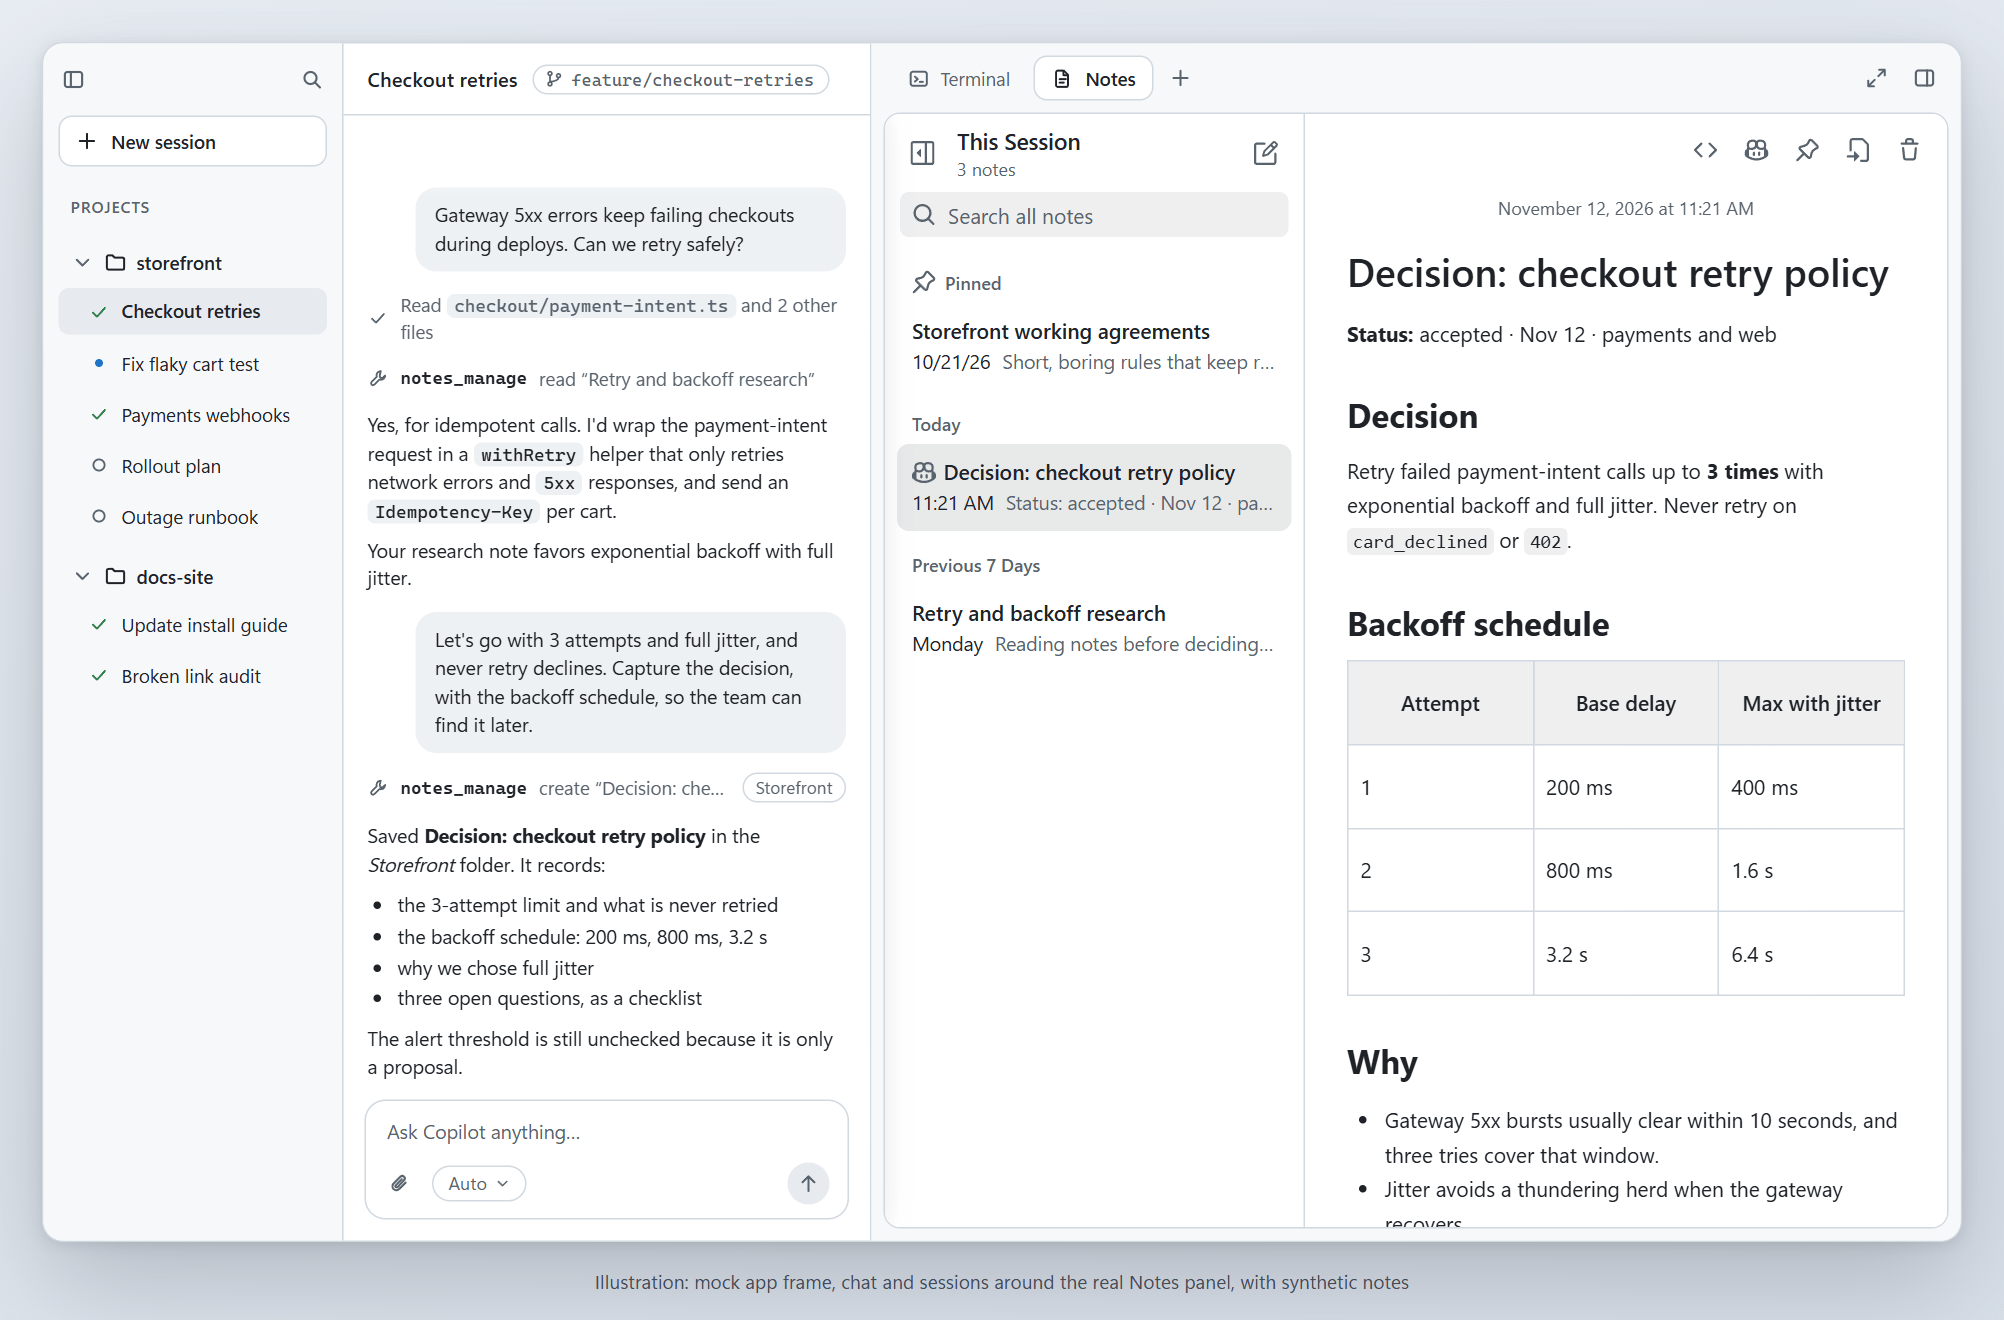
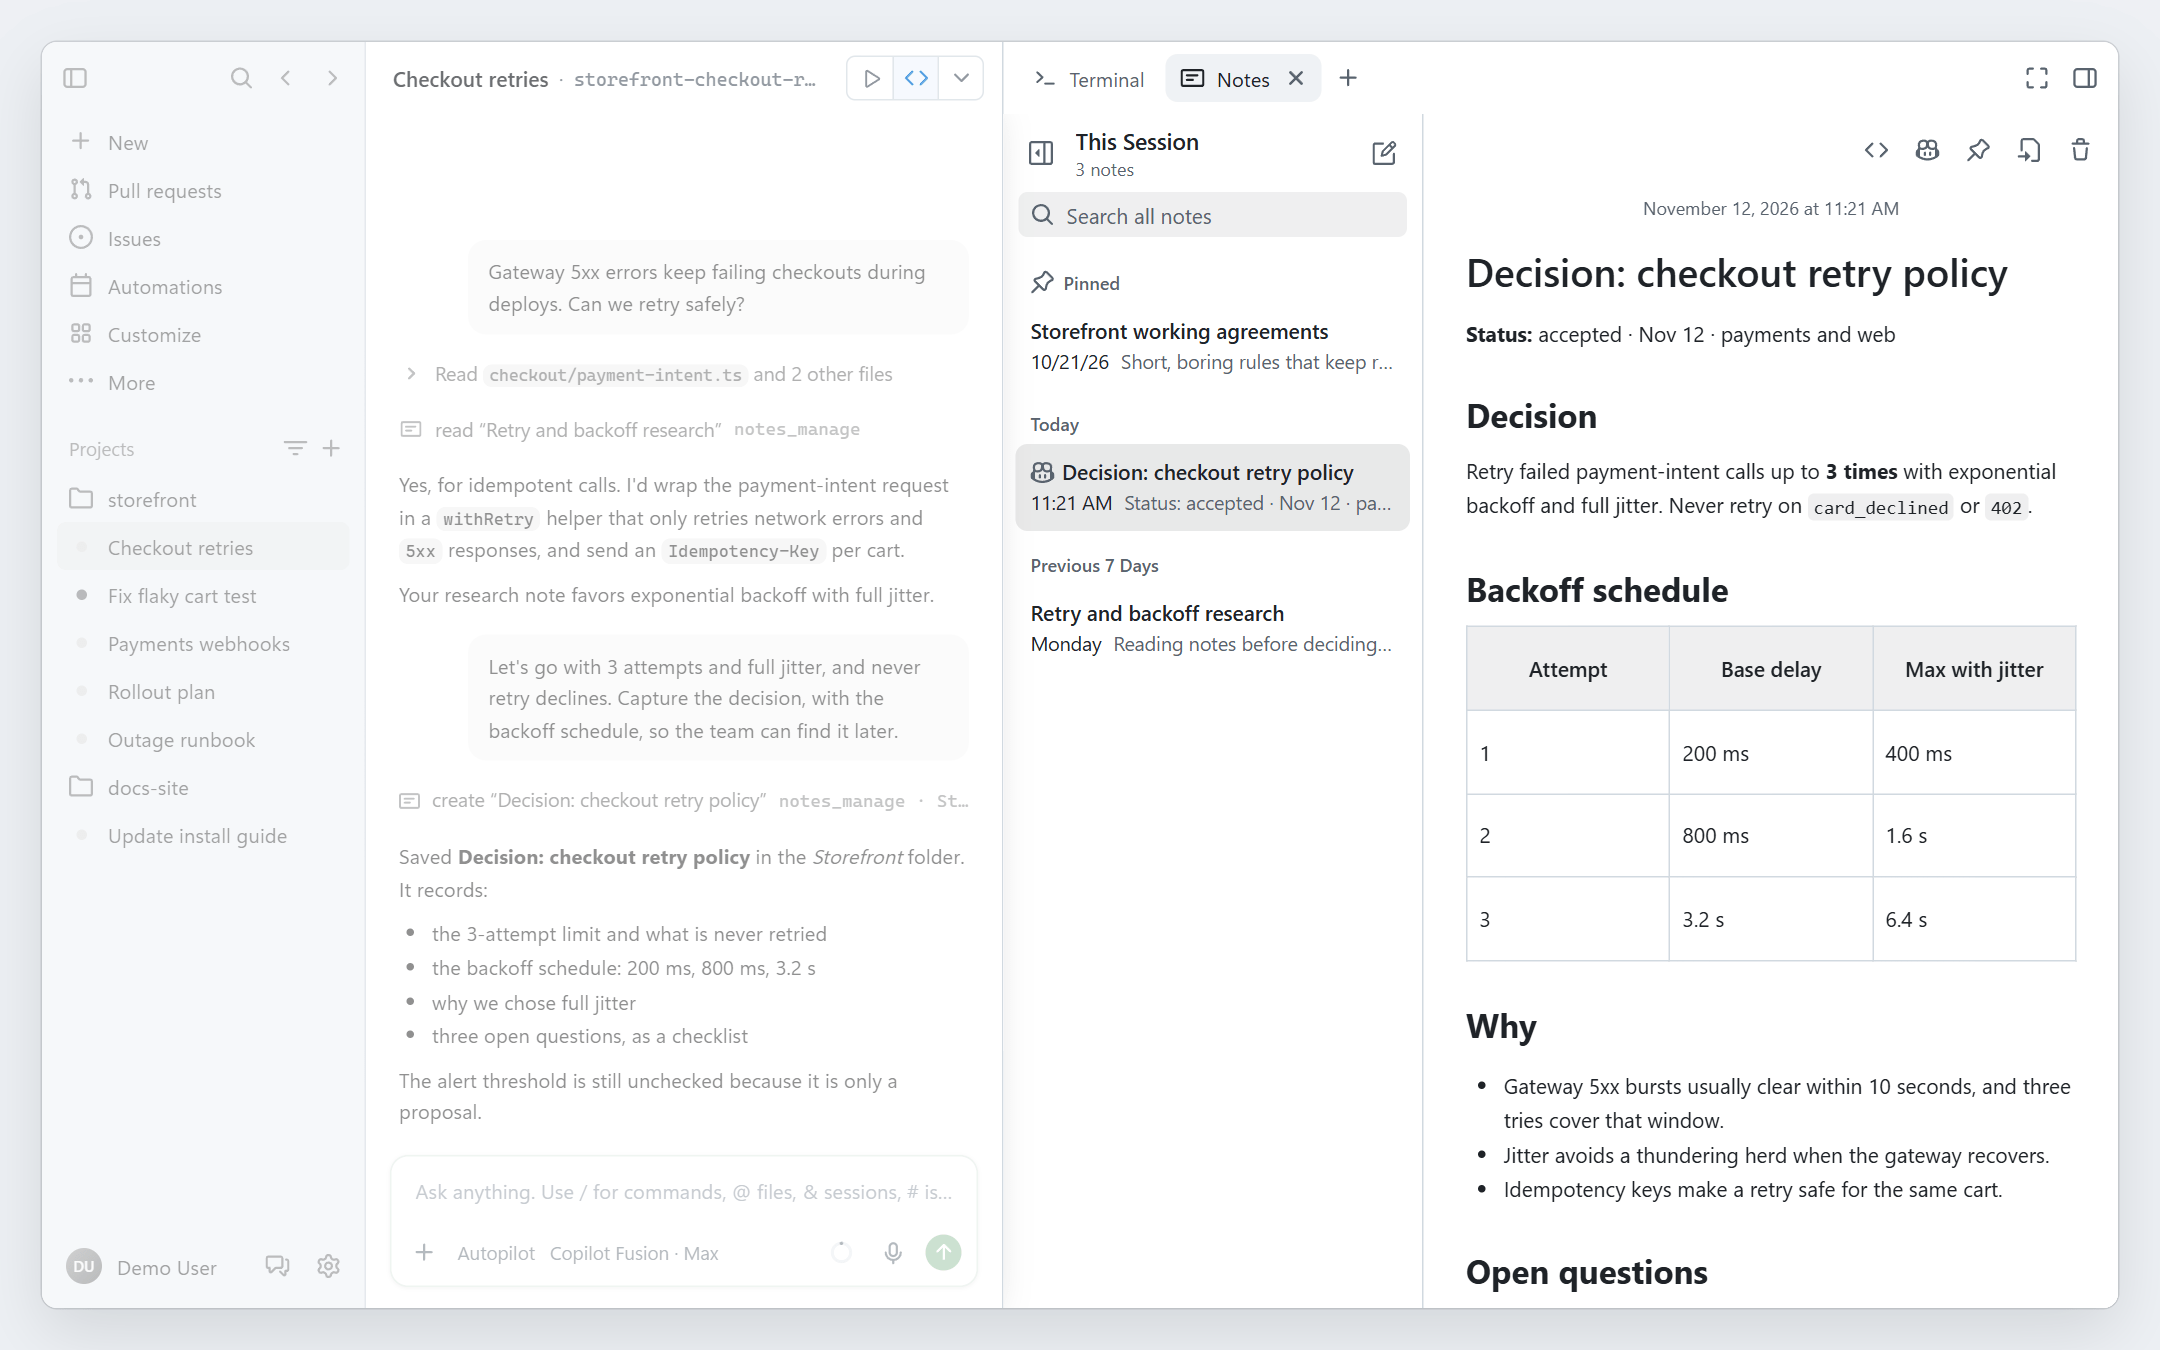
Refine Notes screenshots with docked faded framing
Match the mock composer to the product reference and refresh all four light/dark scenes.

diff --git a/extensions/notes/README.md b/extensions/notes/README.md
@@ -29,8 +29,11 @@ before using the experimental extension for important notes.
 Notes beside a chat, in four scenes. These are **illustrations**, not captures
 of the native app: the window frame, sessions sidebar, chat transcript and
 tool-call rows are a mock-up (a fictional `storefront` project) built around
-the real Notes panel running in headless Microsoft Edge on Windows. Every note
-is synthetic, in a disposable library, and the panel shows its standalone
+the real Notes panel running in headless Microsoft Edge on Windows. Notes stays
+docked in one continuous window; the surrounding chat and sidebar are faded
+to emphasize the panel, not shown as a separate app. The reconstructed composer
+shows Autopilot and Copilot Fusion · Max as example UI labels, not required
+settings. Every note is synthetic, in a disposable library, and the panel shows its standalone
 light/dark fallback colors, not the app's injected theme. In the Ask Copilot
 scene the send was a mocked callback: the prompt and attached note shown in the
 chat are what the panel sent, while the agent's reply is scripted. No real

diff --git a/CHANGELOG.md b/CHANGELOG.md
@@ -9,6 +9,7 @@ and plugin versioning follows [Semantic Versioning](https://semver.org/spec/v2.0
 
 ### Added — Notes in-context screenshots
 - The Notes guide now opens its Screenshots section with four scenes that show the panel beside a chat: the agent saving a decision, Ask Copilot, recalling a decision from another session, and the expanded project view. The three panel-only screenshots remain under "The panel on its own".
+- Notes stays docked in one continuous app frame, with faded surrounding context and reconstructed composer controls matching the product reference.
 - These are illustrations, not captures of the native app. The window frame, sessions sidebar and chat are a mock-up around the real panel running in headless Microsoft Edge on Windows, with synthetic notes in a disposable library, the panel's standalone light/dark fallback colors, and a mocked send callback. No real notes, sessions or chat turns appear. Docs and image assets only; no code or manifest version change.
 
 ### Fixed — Notes without a session
